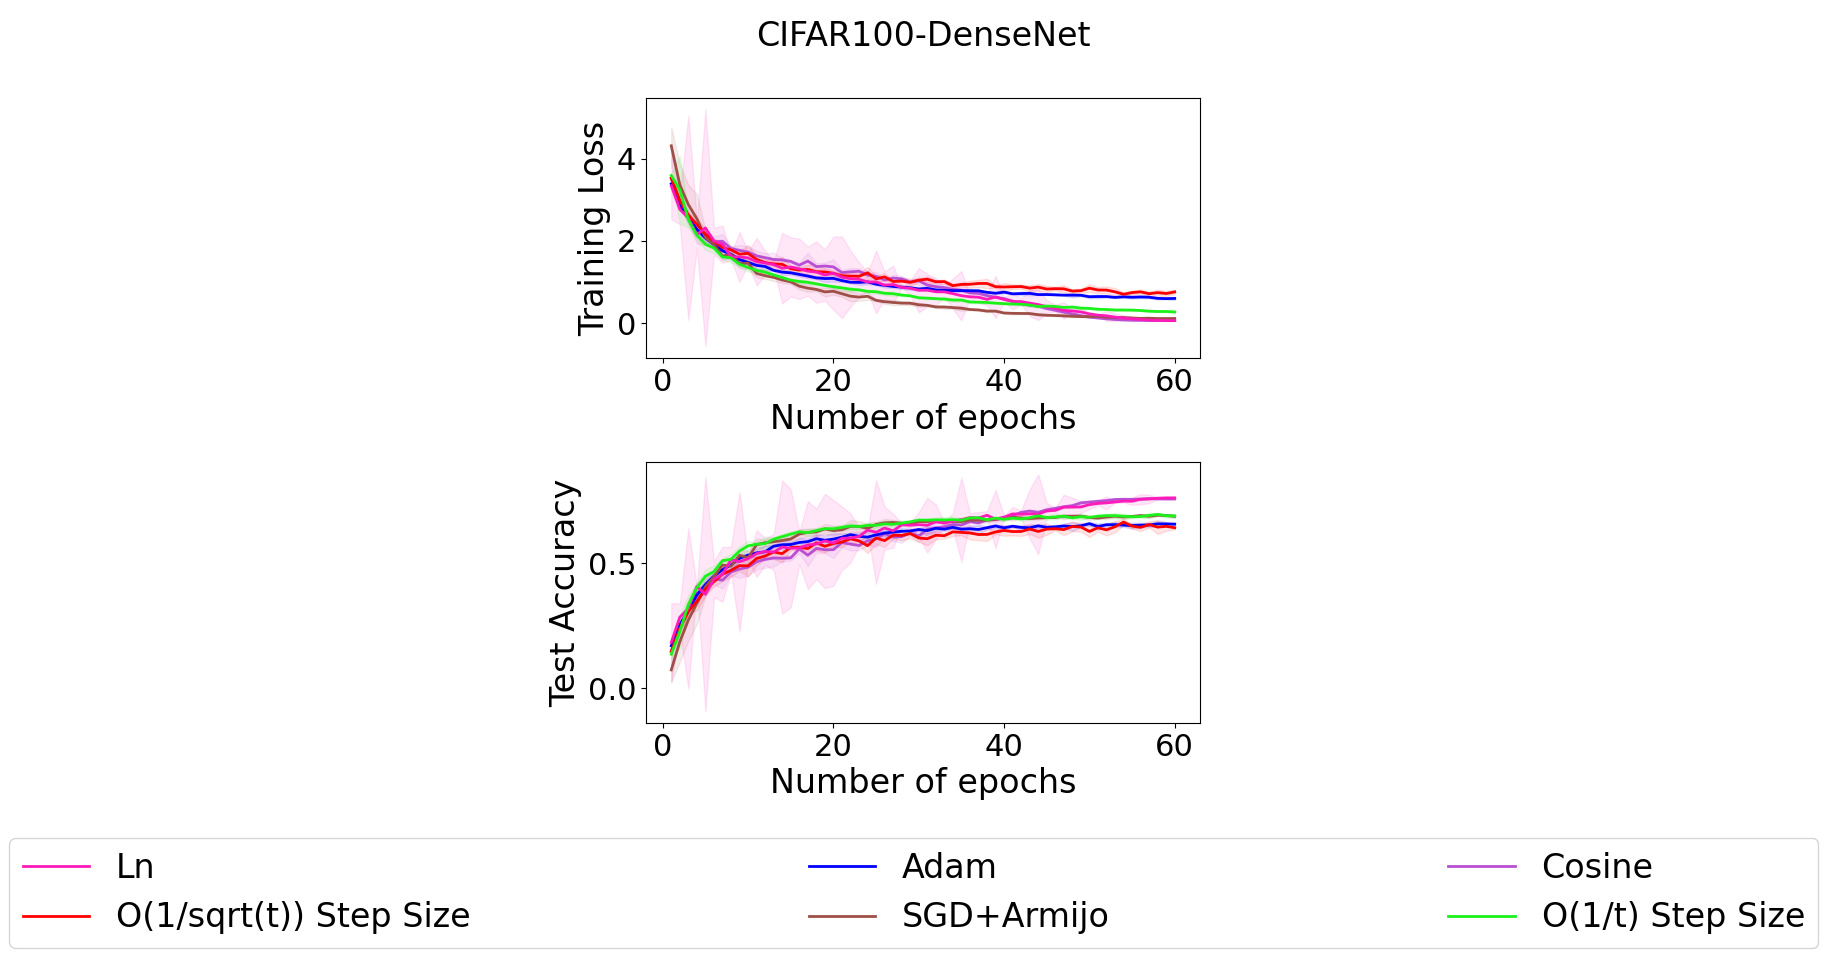
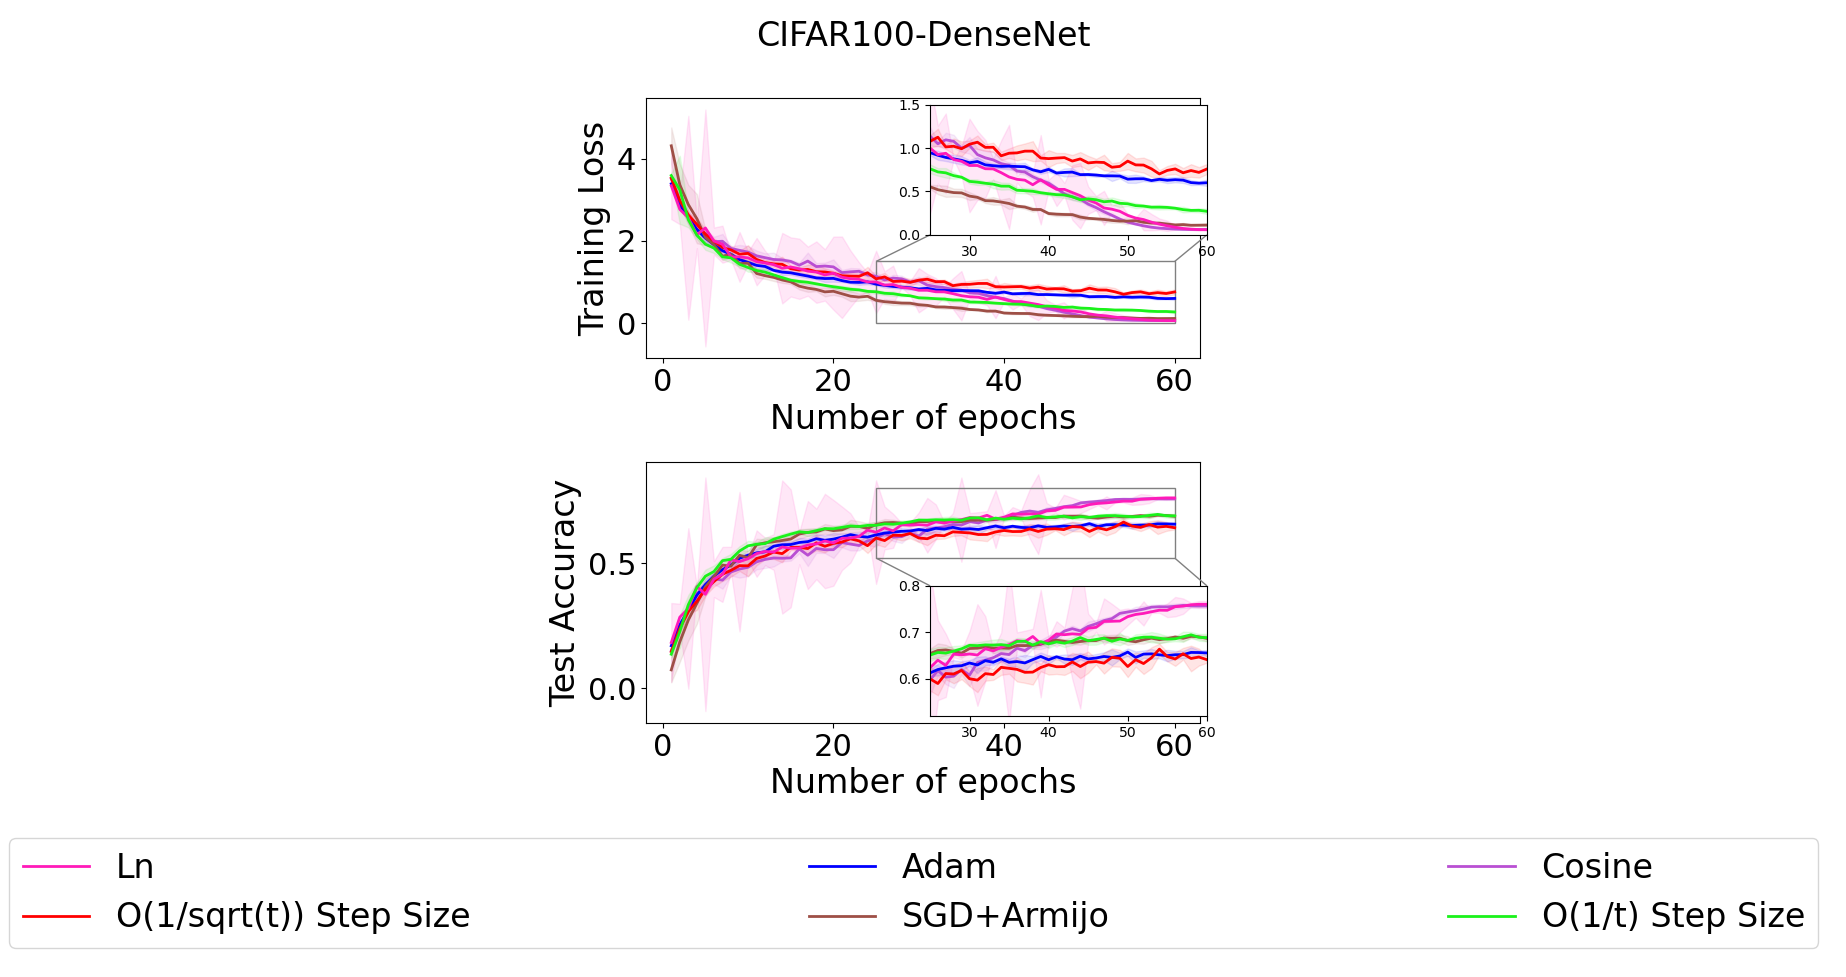
Revise

diff --git a/draw_comps2.py b/draw_comps2.py
@@ -89,17 +89,27 @@ def draw_comps(logs_folder, fig_type):
                   'SGD_1t_Decay':'O(1/t) Step Size',
                   'SGD_1sqrt_Decay':'O(1/sqrt(t)) Step Size',
                   'SGD_Exp_Decay':'Exponential Step Size',
+                  'SGD_Exp2_Decay':'New Exponential Step Size',
                   'SGD_Cosine_Decay':'Cosine',
+                  'SGD_tan1_Decay':'tan1 Decay',
+                  'SGD_tan2_Decay':'tan2 Decay',
+                  'SGD_tan3_Decay':'tan3 Decay',
                   'SGD_ln1_Decay':'Ln',
+                  'SGD_sin1_Decay':'sin1 Decay',
+                  'SGD_sin2_Decay':'sin2 Decay',
                   'SLS-Armijo0':'SGD+Armijo',
                   'SLS-Armijo1':'SGD+Armijo',
-                  'SLS-Armijo2':'SGD+Armijo'}
+                  'SLS-Armijo2':'SGD+Armijo',
+                  'SCGS2':'stochastic conjugate gradiant'}
 
         colors = {'Adam':0, 'SGD_1sqrt_Decay':1, 'SGD_1t_Decay':2,
-                  'SGD_Exp_Decay':3, 'SGD_Cosine_Decay':6, 'SGD_ln1_Decay':4,'SLS-Armijo0':8,'SLS-Armijo1':8, 'SLS-Armijo2':8,'SGD':0, 'SGD_ReduceLROnPlateau':5, 'SGD_Exp_Decay':3,'SGD_Stage_Decay':1}
+                  'SGD_Exp_Decay':3, 'SGD_Cosine_Decay':6,'SGD_tan1_Decay':0,'SGD_tan2_Decay':5,'SGD_tan3_Decay':2, 'SGD_ln1_Decay':4,'SGD_sin1_Decay':5,'SGD_sin2_Decay':2,'SLS-Armijo0':8,
+                  'SLS-Armijo1':8, 'SLS-Armijo2':8,'trust-chauhan':0, 'SGD':0, 'SGD_ReduceLROnPlateau':5, 'SGD_Exp_Decay':3,
+                  'SGD_Stage_Decay':1,'SGD_Exp2_Decay':4, 'SCGS2':1}
     
         draw_methods = ['SGD', 'SGD_ReduceLROnPlateau',
-                        'SGD_Stage_Decay', 'SGD_Exp_Decay','Adam', 'SGD_Exp_Decay', 'SGD_1sqrt_Decay', 'SGD_1t_Decay','SGD_Cosine_Decay','SGD_ln1_Decay','SLS-Armijo0', 'SLS-Armijo1', 'SLS-Armijo2']
+                        'SGD_Stage_Decay', 'SGD_Exp_Decay','Adam', 'SGD_Exp_Decay', 'SGD_1sqrt_Decay', 'SGD_1t_Decay',
+                        'SGD_Cosine_Decay', 'SGD_tan1_Decay','SGD_tan2_Decay','SGD_tan3_Decay','SGD_ln1_Decay','SGD_sin1_Decay','SGD_sin2_Decay','SLS-Armijo0', 'SLS-Armijo1', 'SLS-Armijo2','trust-chauhan', 'SGD_Exp2_Decay','SCGS2']
 
         legend_order = [4, 3, 1, 2, 0, 5]
 
@@ -169,7 +179,7 @@ def draw_comps(logs_folder, fig_type):
         ax2.set_xlim(0, 50)  
         fig.suptitle('FashionMNIST-CNN', fontsize=24)
     elif dataset == 'CIFAR100':
-        fig.suptitle('CIFAR100-CNN', fontsize=24)
+        fig.suptitle('CIFAR100-DenseNet', fontsize=24)
     
     ax1.tick_params(axis='both', which='major', labelsize=fontsize-2)
     ax2.tick_params(axis='both', which='major', labelsize=fontsize-2)
@@ -244,10 +254,10 @@ def draw_comps(logs_folder, fig_type):
         axins2.set_xlim(120, 163) # Limit the region for zoom
         axins2.set_ylim(0.82, 0.94)
     elif dataset == 'CIFAR100':
-        axins1.set_xlim(80, 163) # Limit the region for zoom
-        axins1.set_ylim(0, 0.3)       
-        axins2.set_xlim(80, 163) # Limit the region for zoom
-        axins2.set_ylim(0.8, 0.94)
+        axins1.set_xlim(25, 60) # Limit the region for zoom
+        axins1.set_ylim(0, 1.5)       
+        axins2.set_xlim(25, 60) # Limit the region for zoom
+        axins2.set_ylim(0.52, 0.8)
 
     #plt.xticks(visible=False)  # Not present ticks
     #plt.yticks(visible=False)
